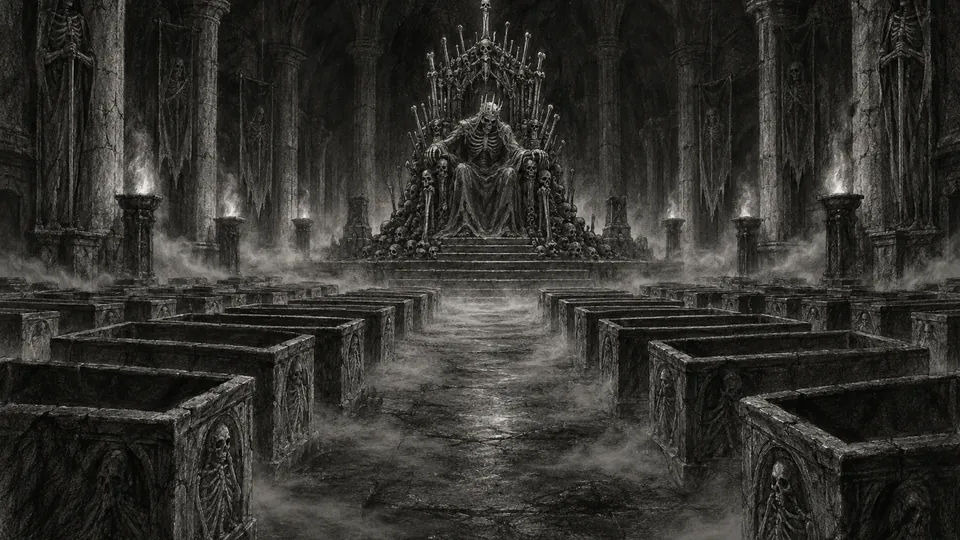
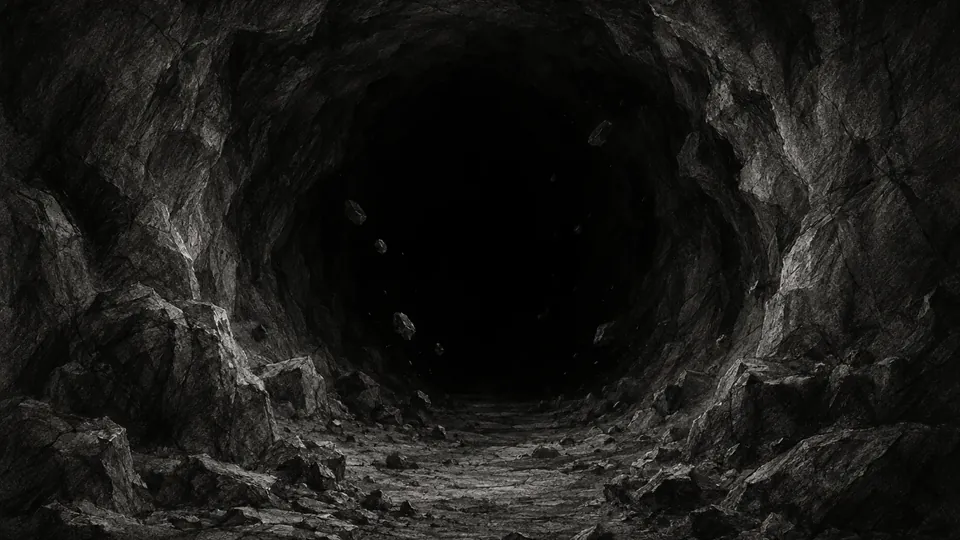
Vorraumbilder Leerenhüter/Knochenkönig korrigiert
Claude-Session: https://claude.ai/code/session_011EEWvRSeQeUrKHaWh94RcN

diff --git a/sw.js b/sw.js
@@ -1,4 +1,4 @@
-const V='riss-1795566327';
+const V='riss-1795567326';
 const CORE=['./','index.html','manifest.webmanifest','icons/icon-192.png','icons/icon-512.png','img/b1.webp','img/b2.webp','img/b3.webp','img/b4.webp','img/b5.webp','img/e1.webp','img/e10.webp','img/e11.webp','img/e12.webp','img/e13.webp','img/e2.webp','img/e3.webp','img/e4.webp','img/e5.webp','img/e6.webp','img/e7.webp','img/e8.webp','img/e9.webp','img/g1.webp','img/g10.webp','img/g11.webp','img/g12.webp','img/g13.webp','img/g14.webp','img/g15.webp','img/g16.webp','img/g17.webp','img/g18.webp','img/g19.webp','img/g2.webp','img/g20.webp','img/g21.webp','img/g22.webp','img/g23.webp','img/g24.webp','img/g25.webp','img/g3.webp','img/g4.webp','img/g5.webp','img/g6.webp','img/g7.webp','img/g8.webp','img/g9.webp','img/k1.webp','img/k10.webp','img/k2.webp','img/k3.webp','img/k4.webp','img/k5.webp','img/k6.webp','img/k7.webp','img/k8.webp','img/k9.webp','img/o1.webp','img/o2.webp','img/o3.webp','img/o4.webp','img/o5.webp','img/o6.webp','img/o7.webp','img/o8.webp','img/o9.webp','img/q1.webp','img/q2.webp','img/q3.webp','img/t1.webp','img/t2.webp','img/t3.webp','img/t4.webp','img/t5.webp','img/v1.webp','img/v10.webp','img/v2.webp','img/v3.webp','img/v4.webp','img/v5.webp','img/v6.webp','img/v7.webp','img/v8.webp','img/v9.webp','img/x1.webp','img/x10.webp','img/x2.webp','img/x3.webp','img/x4.webp','img/x5.webp','img/x6.webp','img/x7.webp','img/x8.webp','img/x9.webp','mus/fight.mp3','mus/camp.mp3','mus/fire.mp3'];
 self.addEventListener('install',e=>{e.waitUntil(caches.open(V).then(c=>c.addAll(CORE)).then(()=>self.skipWaiting()))});
 self.addEventListener('activate',e=>{e.waitUntil(caches.keys().then(ks=>Promise.all(ks.filter(k=>k!==V).map(k=>caches.delete(k)))).then(()=>self.clients.claim()))});
